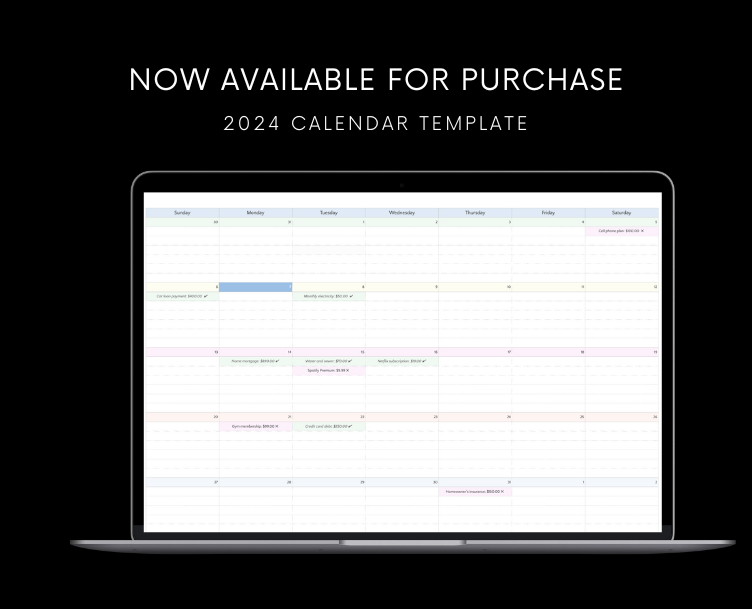
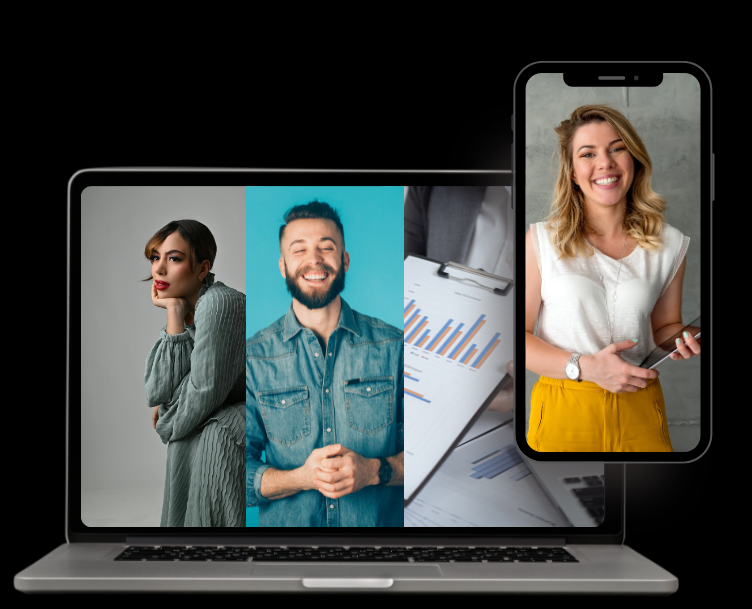
Alterando nossa page test

diff --git a/pageid.html b/pageid.html
@@ -4,23 +4,25 @@
     <meta charset="UTF-8">
     <link rel="stylesheet" href="https://cdnjs.cloudflare.com/ajax/libs/font-awesome/6.5.2/css/all.min.css" integrity="sha512-SnH5WK+bZxgPHs44uWIX+LLJAJ9/2PkPKZ5QiAj6Ta86w+fsb2TkcmfRyVX3pBnMFcV7oQPJkl9QevSCWr3W6A==" crossorigin="anonymous" referrerpolicy="no-referrer" />
 
+    <link rel="icon" type="image/png" href="./img/perfilintel.jpg">
+
     <meta name="viewport" content="width=device-width, initial-scale=1.0">
     
     <link rel="stylesheet" href="style/header.css">
     <link rel="stylesheet" href="style/main.css">
     <link rel="stylesheet" href="style/footer.css">
 
-    <title>Document</title>
+    <title>Desenvolvimentos Intel</title>
 </head>
 <body>
     <header>
         <nav class="navigation">
-            <a href="#" class="logo">Food <span>Truck</span></a>
+            <a href="#" class="logo">Intel<span>Dev</span></a>
             <ul class="nav-menu">
                 <li class="nav-item"><a href="#">Home</a></li>
-                <li class="nav-item"><a href="#">Sobre</a></li>
-                <li class="nav-item"><a href="#">Menu</a></li>
-                <li class="nav-item"><a href="#">Contatos</a></li>
+                <li class="nav-item"><a href="#">Serviços</a></li>
+                <li class="nav-item"><a href="#">Projetos</a></li>
+                <li class="nav-item"><a href="#">Contato</a></li>
                 <i class="fa-solid fa-magnifying-glass"></i>
             </ul>
             <div class="menu">
@@ -34,10 +36,11 @@
     <main>
         <section class="home">
             <div class="home-text">
-                <h4 class="text-h4">Bem-Vindo ao Food Truck</h4>
-                <h1 class="text-h1">O melhor hamburguer voce encontra aqui!</h1>
-                <p>Com os melhores profissionais voce vai dadoreas esse lanche venhas conehcer e se deliciar </p>
-                <a href="#" class="home-btn">Fazer pedido</a>
+                <h4 class="text-h4">Seu Negócio</h4>
+                <h1 class="text-h1">Desenvolvido por quem entende, Aprovado por quem usa!</h1>
+                <p>Desenvolvimento para o seu negócio: websites, landing pages, tráfego e muito mais com a IntelDev</p>
+                <a href="https://wa.me/554591296018" target="_blank" class="home-btn">Entre em contato</a>
+
             </div>
             <div class="home-img">
                 <img src="img/imagem.png" alt="hamburguer">

diff --git a/style/footer.css b/style/footer.css
@@ -1,6 +1,6 @@
 /* Estilização básica do footer */
 .footer {
-    background-color: #222; /* Cor de fundo escura */
+    background-color: #000000; /* Cor de fundo escura */
     color: #fff; /* Cor do texto */
     text-align: center; /* Centraliza o conteúdo */
     padding: 15px; /* Espaçamento interno */
@@ -12,7 +12,7 @@
 
 /* Estilo do link */
 .footer a {
-    color: #00aaff; /* Cor do link */
+    color: #ff4141; /* Cor do link */
     text-decoration: none; /* Remove sublinhado */
     font-weight: bold; /* Deixa o texto em negrito */
 }

diff --git a/script.js b/script.js
@@ -1,0 +1,7 @@
+const menu = document.querySelector('.menu');
+const NavMenu = document.querySelector('.nav-menu');
+
+menu.addEventListener('click', () => {
+    menu.classList.toggle('ativo');
+    NavMenu.classList.toggle('ativo');
+})

diff --git a/style/header.css b/style/header.css
@@ -11,9 +11,9 @@
 }
 
 :root{
-    --red:#d63a25;
-    --white:#fff;
-    --dark:#1e1c2a;
+    --red:#39ff14;
+    --white:#000000;
+    --dark:#d3cbff;
 }
 body{
     color: var(--dark);

diff --git a/style/main.css b/style/main.css
@@ -31,7 +31,7 @@
     transition: all 0.5s;
 }
 .home-btn:hover{
-    background: #fc4c35;
+    background: #00ff11;
 }
 .home-img img{
     width: 100%;
